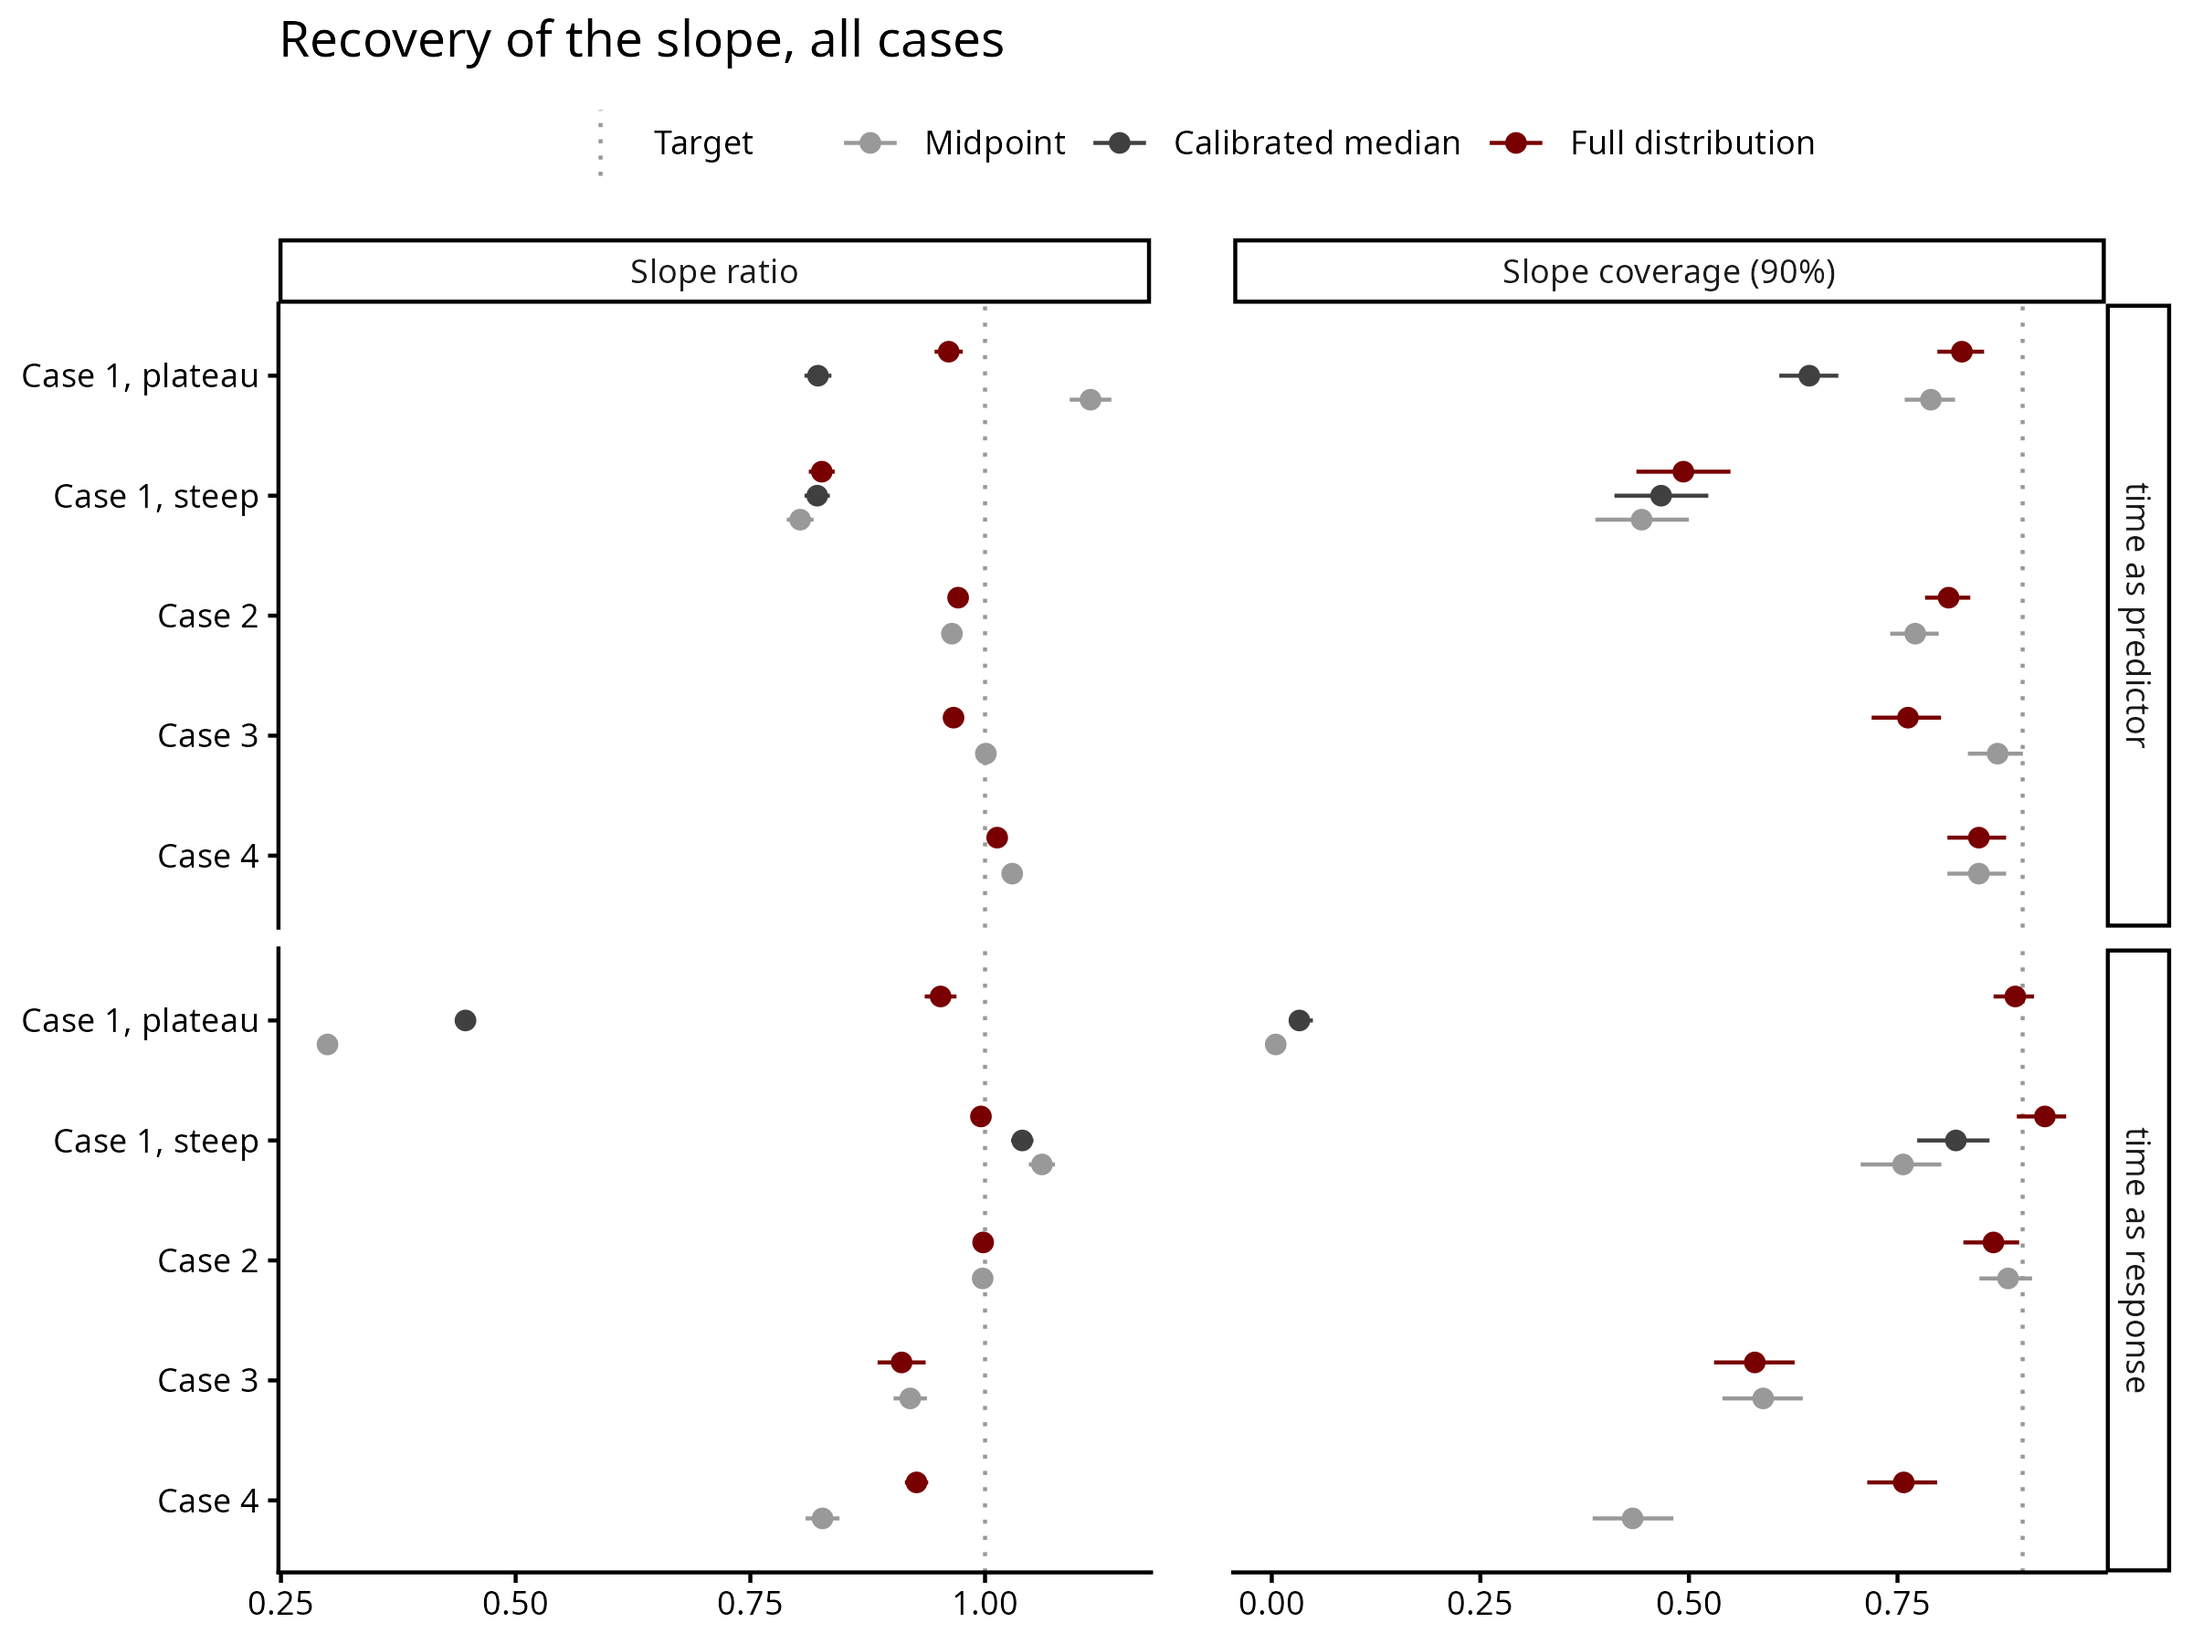
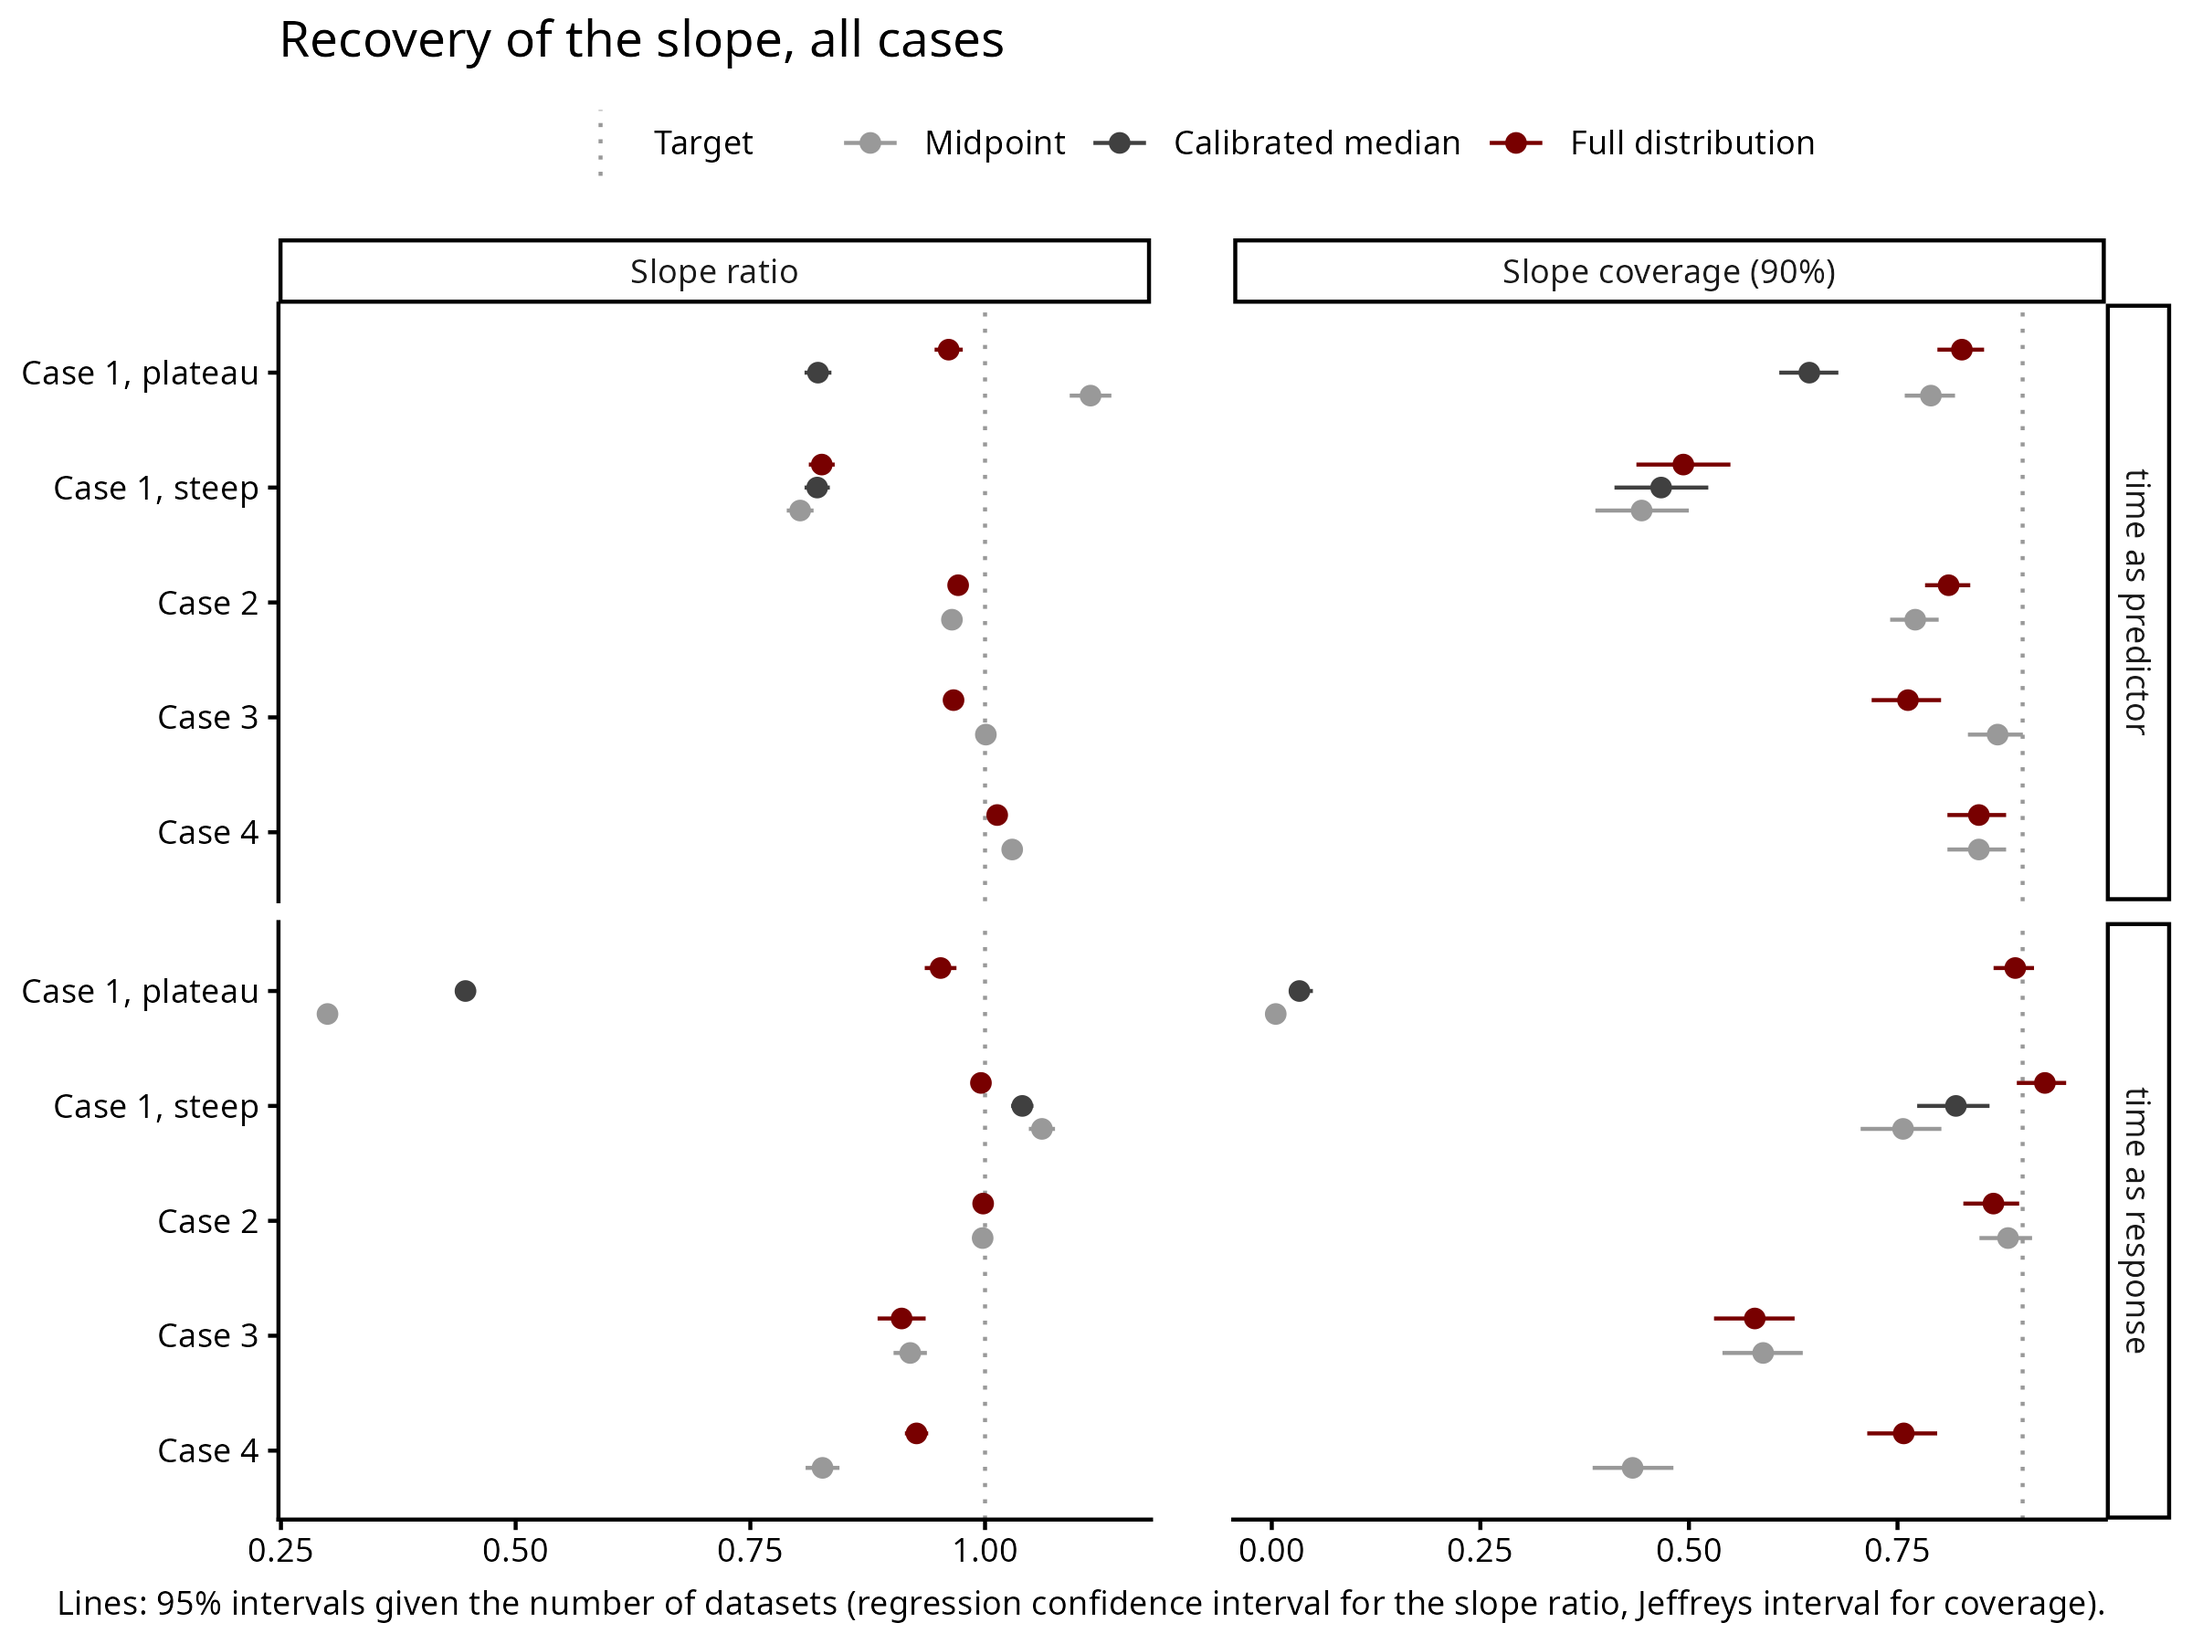
First results

diff --git a/RESULTS.md b/RESULTS.md
@@ -13,13 +13,21 @@ Measures, computed on datasets with a real (non-zero) slope:
 
 ![Slope ratio and coverage, all cases](Simulations/shared/figures/overview.png)
 
+Points: the measure across all datasets in a group. Lines: its 95% interval given
+the number of datasets (regression confidence interval for the slope ratio,
+Jeffreys interval for coverage). The slope ratio is the slope of a regression of
+the estimated slopes on the true slopes across datasets. Dividing each estimate
+by its true slope and averaging would not work: many datasets have a true slope
+close to zero, and a small error divided by a near-zero slope gives an enormous
+ratio that would swamp the average.
+
 ## Time as predictor (value = intercept + slope × date)
 
 σ in units of the measured value (true σ 0.5-4).
 
 | Case | Point dates: slope ratio / coverage / σ bias | Full distribution |
 |---|---|---|
-| 1, steep section | 0.80-0.82 / 0.44-0.47 / +0.14 | 0.83 / 0.49 / +0.01 |
+| 1, steep section | midpoint 0.80 / 0.44 / +0.14; median 0.82 / 0.47 / +0.14 | 0.83 / 0.49 / +0.01 |
 | 1, Hallstatt plateau | midpoint 1.11 / 0.79 / +0.45; median 0.82 / 0.64 / +0.41 | 0.96 / 0.83 / −0.02 |
 | 2, typochronology | 0.965 / 0.77 / +0.13 | 0.97 / 0.81 / −0.01 |
 | 3, overlapping phases | 1.00 / 0.87 / +0.41 | 0.97 / 0.76 / −0.16 |
@@ -46,7 +54,7 @@ Measures, computed on datasets with a real (non-zero) slope:
 | Case | Point dates: slope ratio / coverage / σ bias | Full distribution |
 |---|---|---|
 | 1, Hallstatt plateau | midpoint 0.30 / 0.005 / +1.7; median 0.45 / 0.03 / +22 | 0.95 / 0.89 / −1.9 |
-| 1, steep section | 1.04-1.06 / 0.76-0.82 / +24-26 | 1.00 / 0.93 / +0.1 |
+| 1, steep section | midpoint 1.06 / 0.76 / +25.5; median 1.04 / 0.82 / +23.9 | 1.00 / 0.93 / +0.1 |
 | 2, typochronology | 1.00 / 0.88 / +9 | 1.00 / 0.87 / −0.4 |
 | 3, overlapping phases | 0.92 / 0.59 / +16 | 0.91 / 0.58 / −21 |
 | 4, merged phases | 0.83 / 0.43 / +16 | 0.93 / 0.76 / −11 |
